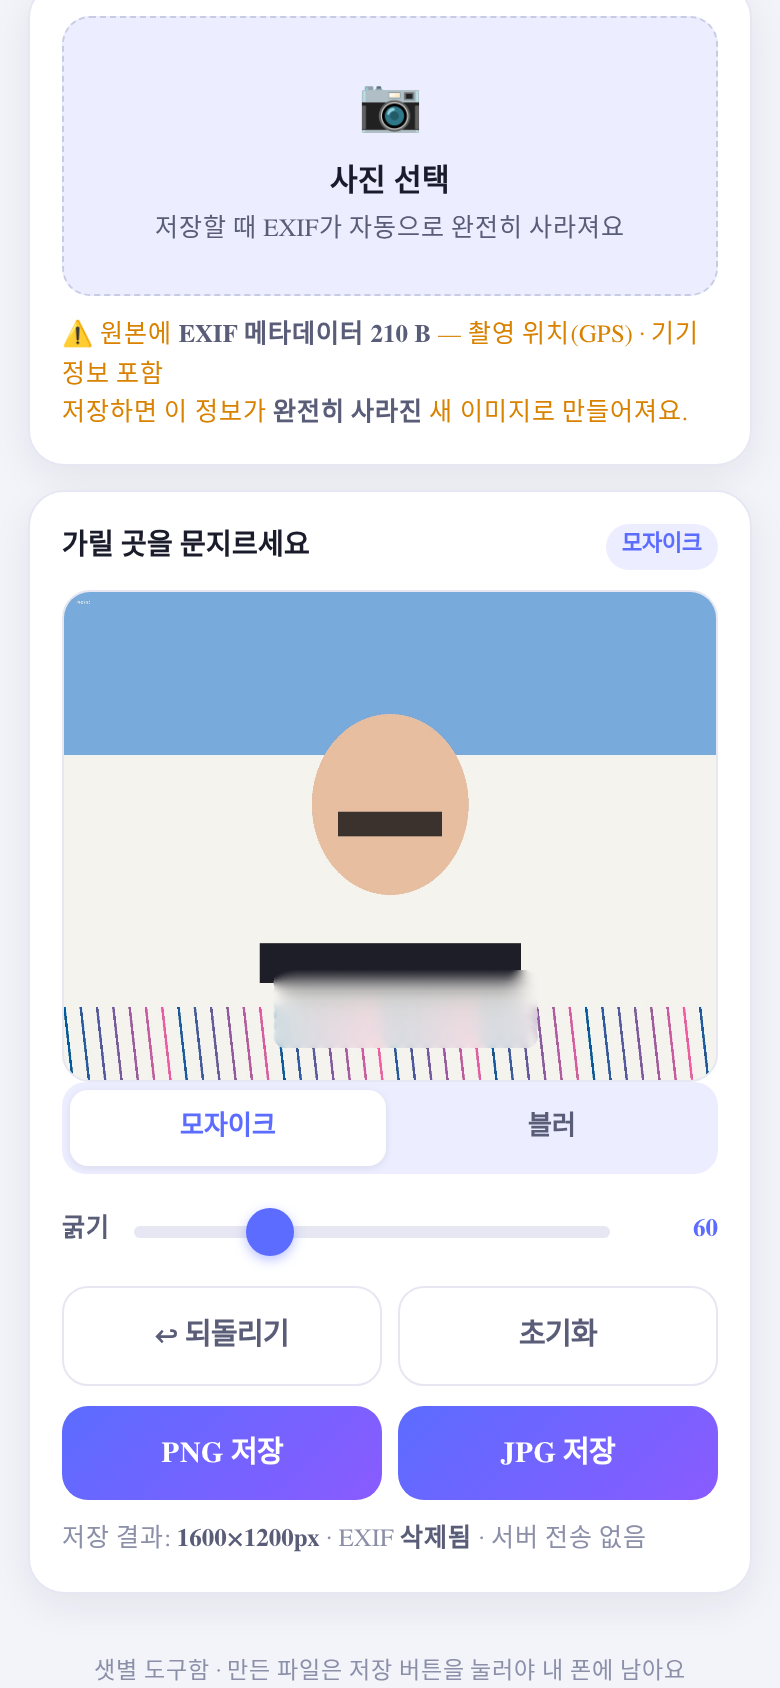
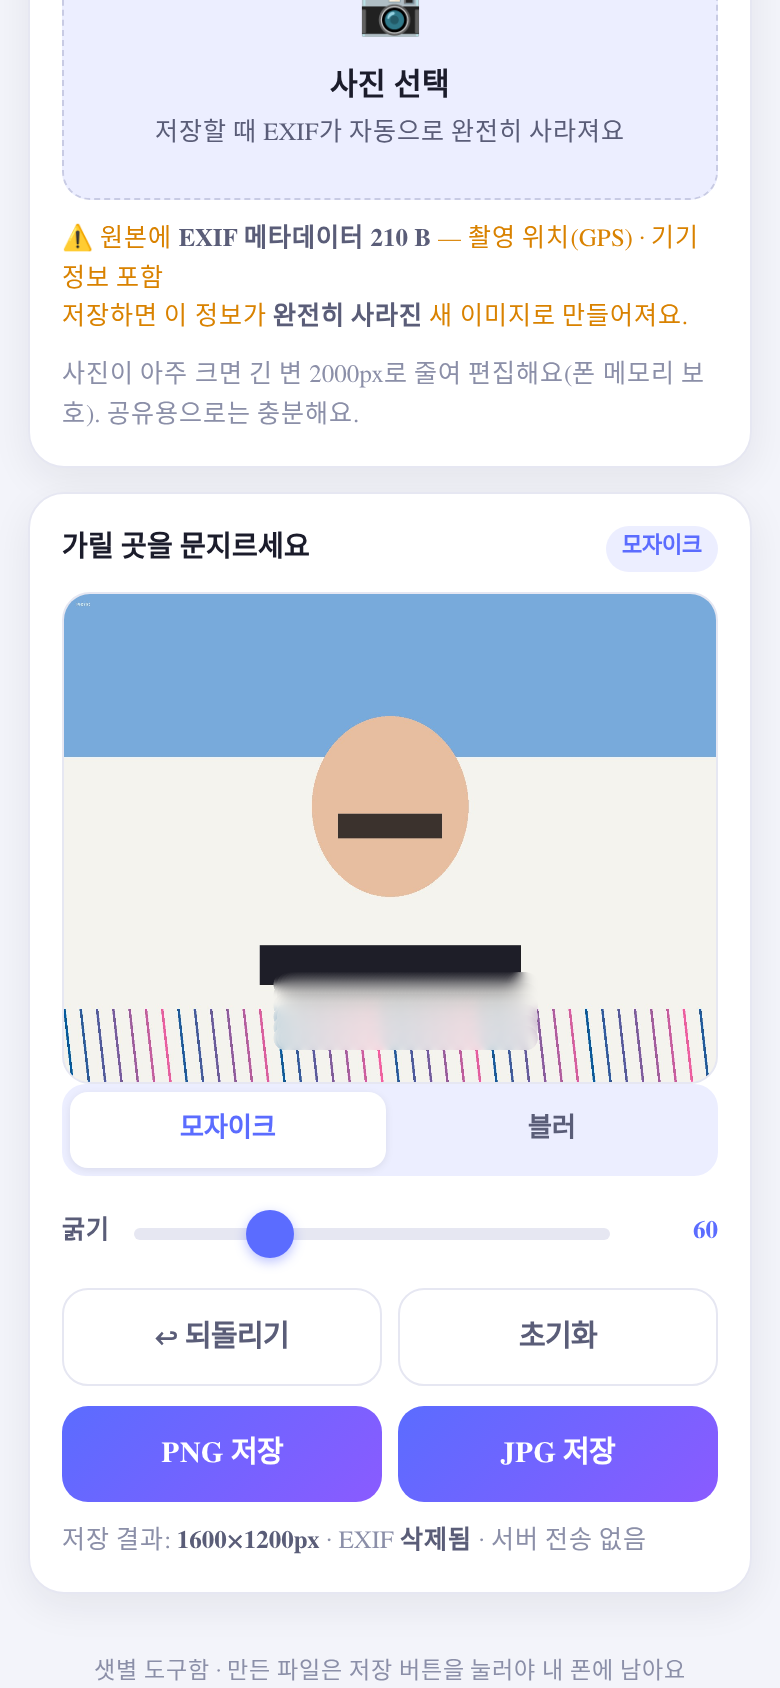
편집 안내 문구 추가, 다크모드 폼 색상 힌트

diff --git a/index.html b/index.html
@@ -6,6 +6,7 @@
 <title>샛별 도구함</title>
 <meta name="description" content="EXIF 삭제·모자이크, URL 추적 제거, PDF↔이미지, 이미지 압축, QR 생성, SNS 비율 리사이즈, 워터마크 — 모두 내 폰 안에서만 처리하는 7가지 도구.">
 <meta name="theme-color" content="#5b6cff">
+<meta name="color-scheme" content="light dark">
 <link rel="manifest" href="manifest.json">
 <link rel="apple-touch-icon" href="icons/icon-180.png">
 <link rel="icon" href="icons/icon.svg" type="image/svg+xml">
@@ -56,6 +57,7 @@
         <span>저장할 때 EXIF가 자동으로 완전히 사라져요</span>
       </label>
       <p class="hint" id="exifMeta">사진을 고르면 원본에 남아 있던 정보를 먼저 알려 드려요.</p>
+      <p class="hint">사진이 아주 크면 긴 변 2000px로 줄여 편집해요(폰 메모리 보호). 공유용으로는 충분해요.</p>
     </div>
 
     <div class="card hidden" id="exifEditor">
